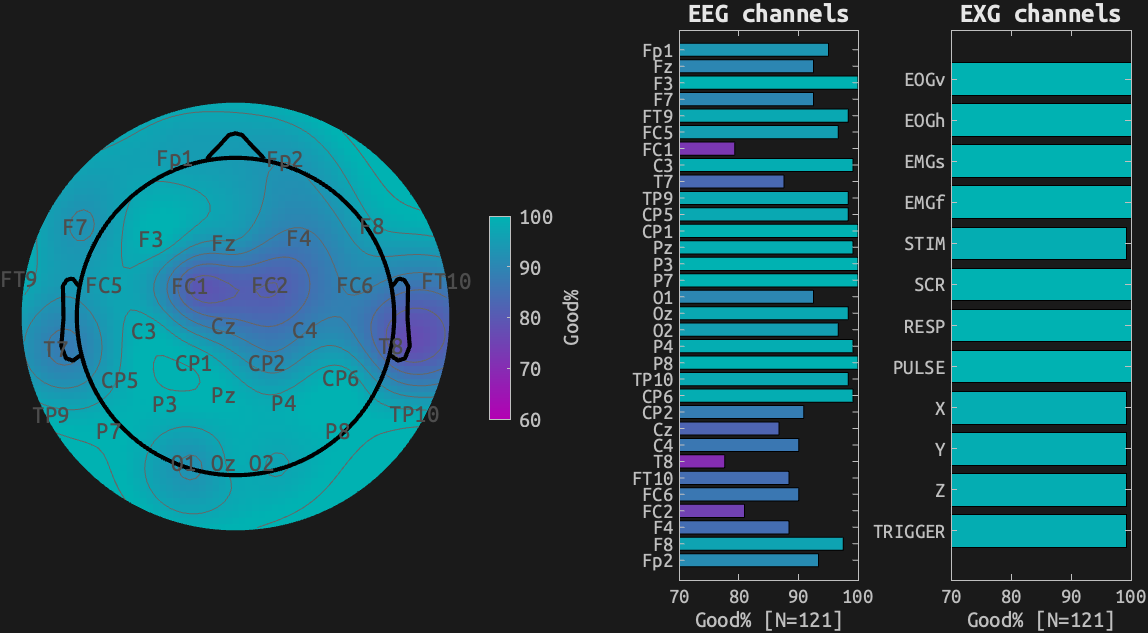
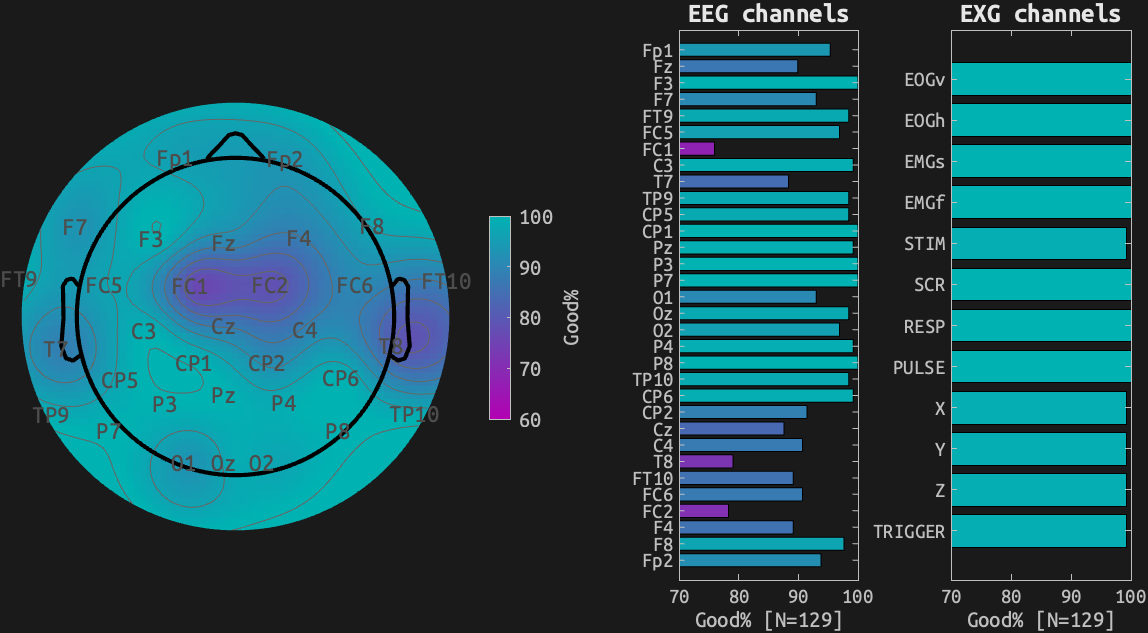
sub-10_ses-02

diff --git a/index.md b/index.md
@@ -3,7 +3,7 @@ title: Current progress
 layout: home
 ---
 
-Here, the current (22-Dec-2025 15:00:50 CE[S]T) progress of the EXG data acquisition is shared.
+Here, the current (22-Dec-2025 17:57:18 CE[S]T) progress of the EXG data acquisition is shared.
 ## Current recordings
 
 ![recordings](figs/run-prog.png)
@@ -14,3 +14,6 @@ Here, the current (22-Dec-2025 15:00:50 CE[S]T) progress of the EXG data acquisi
 ![recordings](figs/avg-isgood.png)
 <br><small>Percentages of "GOOD" runs for each channel are plotted. *EEG*: "BAD" channels were identified by EEGLAB/CLEAN_ARTIFACTS(). *EXG*: "BAD" cahnnels were identified by value ranges (and expected peak frequencies for RESP & PULSE).</small>
 
+### TODOs
+- [ ] See why FC1 FC2 were marked as bad by ASR.
+- [ ] See if FC1 FC2 can be improved by motion regression.
